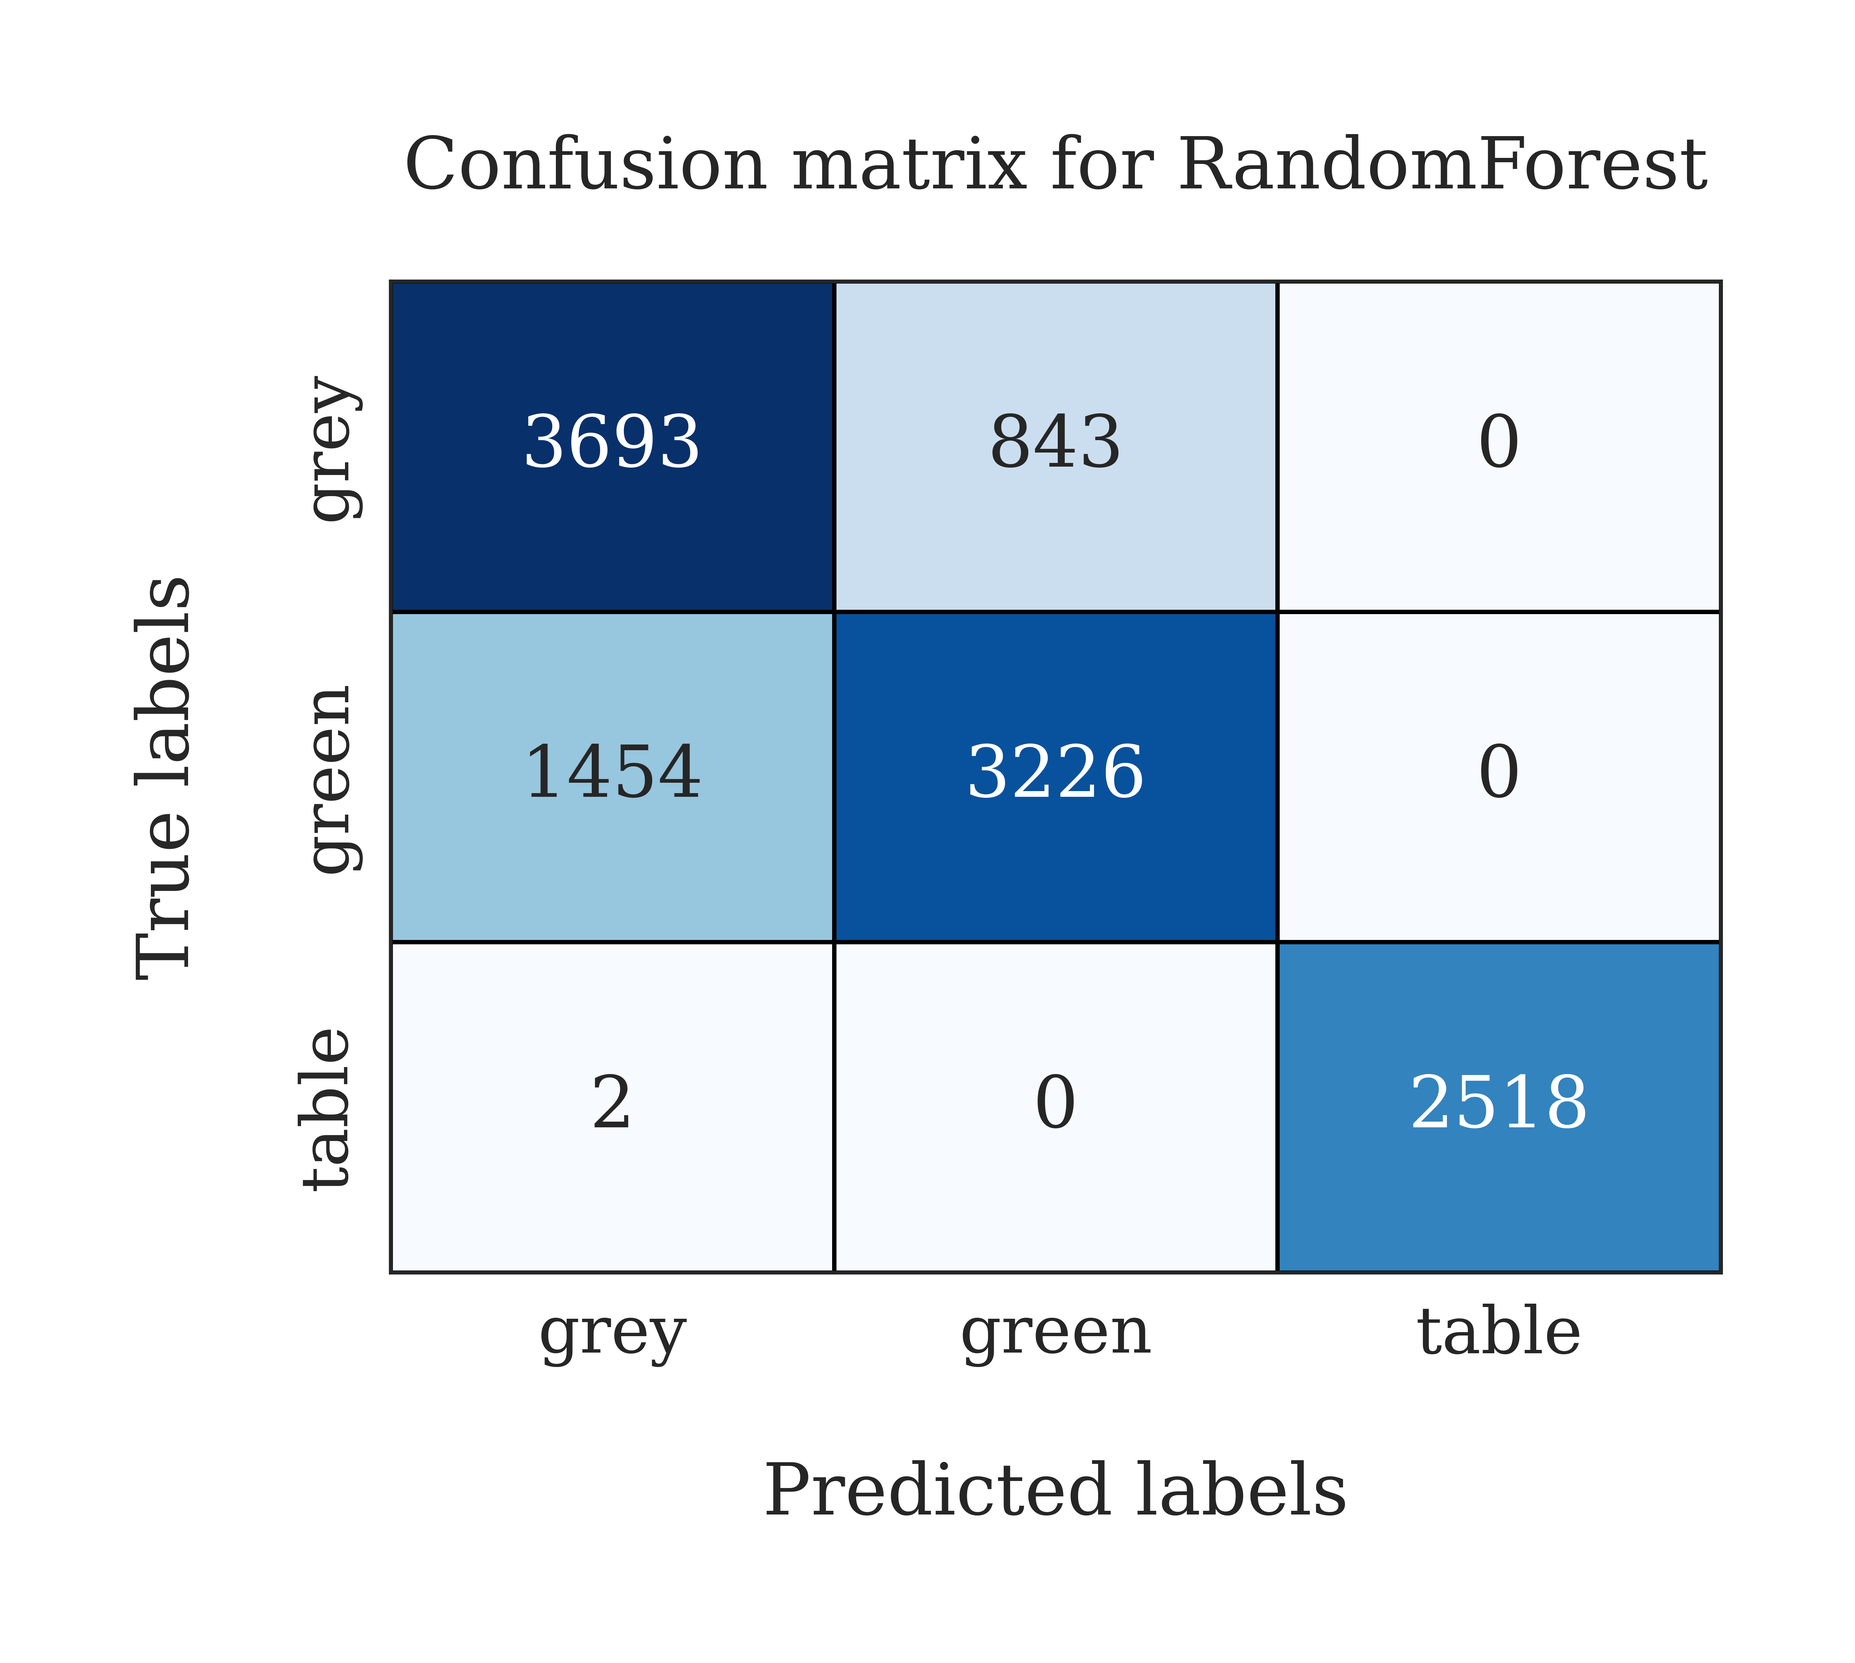
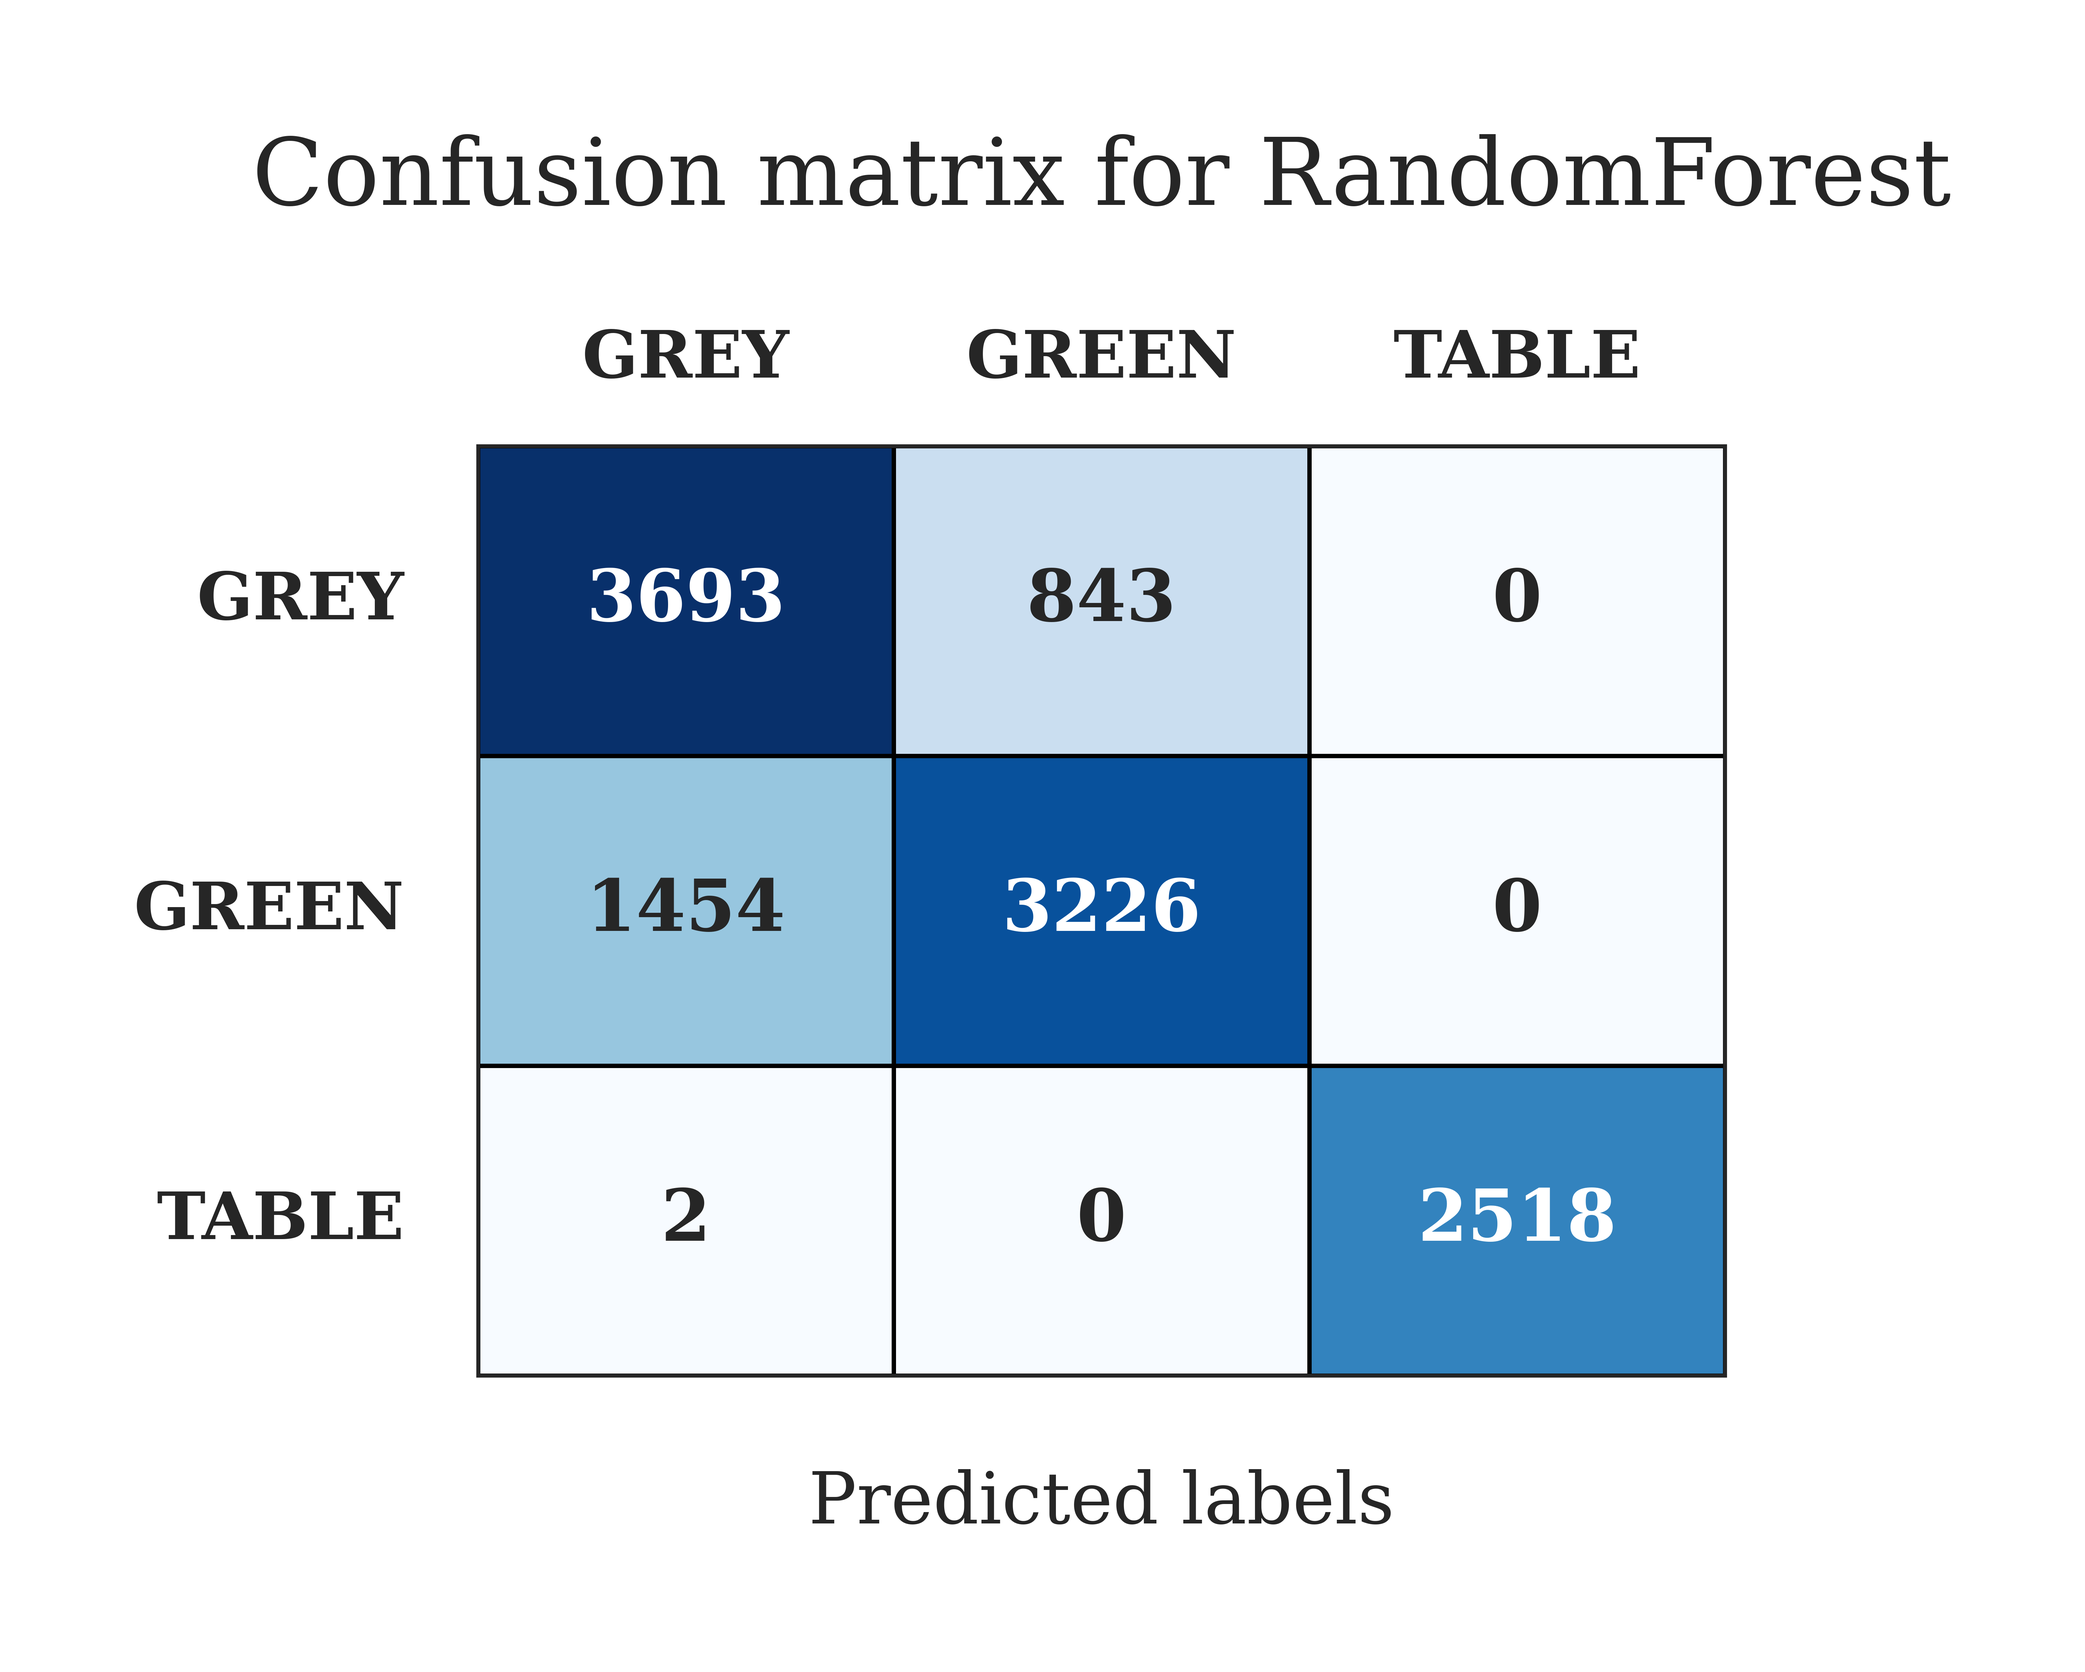
Added metrics and confusion matrices. Small code improvements.

diff --git a/python/DataPreparation/data_prep.py b/python/DataPreparation/data_prep.py
@@ -16,10 +16,12 @@ def parser_args_for_sac():
                         help='file with dvc stage params')
     return parser.parse_args()
 
-def to_categorical(df: pd.DataFrame):
-    df['surface_type'] = pd.Categorical(df['surface_type'])
+
+def to_categorical(df: pd.DataFrame, categories):
+    df['surface_type'] = pd.Categorical(df['surface_type'], ordered=True, categories=categories)
     df = df.assign(surface_type=df.surface_type.cat.codes)
     return df
+
 
 def exportDF(df: pd.DataFrame, dir):
     X = df.drop('surface_type', axis=1)
@@ -53,6 +55,22 @@ def exportDF(df: pd.DataFrame, dir):
     y_val.to_csv(y_val_name, index=False)
 
 
+def selectFeatures(argPool, df):
+    if argPool == 'motor-axis-currents':
+        return df[['xsetspeed', 'ysetspeed', 'm1cur', 'm2cur', 'm3cur', 'sum_motor_current', 'xcur', 'ycur', 'rotcur',
+                   'sum_axis_current', 'rotational', 'surface_type']]
+    elif argPool == 'motorCurrent-motorVelocities':
+        return df[['surface_type', 'rotational', 'xsetspeed', 'ysetspeed',
+                   'm1cur', 'm2cur', 'm3cur', 'm1vel', 'm2vel', 'm3vel']]
+    elif argPool == 'only-motor-currents':
+        return df[['surface_type', 'rotational', 'xsetspeed', 'ysetspeed', 'm1cur', 'm2cur',
+                   'm3cur']]
+    elif argPool == 'pure-motor-currents':
+        return df[['surface_type', 'm1cur', 'm2cur', 'm3cur']]
+    else:
+        print("ERROR-ERROR-ERROR-ERROR-ERROR-ERROR-ERROR-ERROR-ERROR-ERROR")
+
+
 if __name__ == '__main__':
     args = parser_args_for_sac()
     with open(args.params, 'r') as f:
@@ -76,7 +94,7 @@ if __name__ == '__main__':
     df_list = (pd.read_csv(str(output_dir / file) + '_surf.csv') for file in surf_types)
 
     df = pd.concat(df_list, ignore_index=True)
-    df = to_categorical(df)
+    df = to_categorical(df, surf_types)
 
     old_names = ['X_axis_speed_mm_s', 'Y_axis_speed_mm_s', 'Motor_1_current_A', 'Motor_2_current_A',
                  'Motor_3_current_A', 'Current_X_A', 'Current_Y_A', 'Current_Z_A', 'Sum_motor_current_A',
@@ -90,20 +108,9 @@ if __name__ == '__main__':
 
     df.to_csv(output_dir / "merged.csv", index=False)
 
-    types = ['motor-axis-currents', 'motorCurrent-motorVelocities', 'only-motor-currents']
+    types = ['motor-axis-currents', 'motorCurrent-motorVelocities', 'only-motor-currents', 'pure-motor-currents']
 
     for type in types:
         prepDF = df.copy()
-        if type == 'motor-axis-currents':
-            prepDF = prepDF[['xsetspeed', 'ysetspeed', 'm1cur', 'm2cur', 'm3cur', 'sum_motor_current', 'xcur', 'ycur',
-                             'rotcur', 'sum_axis_current', 'rotational', 'surface_type']]
-        elif type == 'motorCurrent-motorVelocities':
-            prepDF = prepDF[['surface_type', 'rotational', 'xsetspeed', 'ysetspeed',
-                             'm1cur', 'm2cur', 'm3cur', 'm1vel', 'm2vel', 'm3vel']]
-        elif type == 'only-motor-currents':
-            prepDF = prepDF[['surface_type', 'rotational', 'xsetspeed', 'ysetspeed', 'm1cur', 'm2cur',
-                             'm3cur']]
+        prepDF = selectFeatures(type, prepDF)
         exportDF(prepDF, type)
-
-
-

diff --git a/python/decisionTree/decision_tree_full.py b/python/decisionTree/decision_tree_full.py
@@ -44,24 +44,33 @@ if __name__ == '__main__':
     y_train_cols = y_train.columns
 
     if argument_pool == 'motor-axis-currents':
-        TREES_MODELS_BEST_PARAMETERS = {
+        BEST_PARAMETERS = {
             'DecisionTree': {'max_depth': 15, 'min_samples_leaf': 4, 'min_samples_split': 3, 'splitter': 'best'},
-            'RandomForest': {'max_depth': 20, 'min_samples_leaf': 2, 'min_samples_split': 4, 'n_estimators': 25}}
+            'RandomForest': {'max_depth': 20, 'min_samples_leaf': 2, 'min_samples_split': 4, 'n_estimators': 25}
+        }
 
     elif argument_pool == 'motorCurrent-motorVelocities':
-        TREES_MODELS_BEST_PARAMETERS = {
+        BEST_PARAMETERS = {
             'DecisionTree': {'max_depth': 20, 'min_samples_leaf': 1, 'min_samples_split': 3, 'splitter': 'random'},
-            'RandomForest': {'max_depth': 20, 'min_samples_leaf': 1, 'min_samples_split': 2, 'n_estimators': 35}}
+            'RandomForest': {'max_depth': 20, 'min_samples_leaf': 1, 'min_samples_split': 2, 'n_estimators': 35}
+        }
 
     elif argument_pool == 'only-motor-currents':
-        TREES_MODELS_BEST_PARAMETERS = {
-            'DecisionTree': {'max_depth': 10, 'min_samples_leaf': 1, 'min_samples_split': 3, 'splitter': 'best'},
-            'RandomForest': {'max_depth': 15, 'min_samples_leaf': 1, 'min_samples_split': 6, 'n_estimators': 35}}
+        BEST_PARAMETERS = {
+            'DecisionTree': {'max_depth': 10, 'min_samples_leaf': 10, 'min_samples_split': 5, 'splitter': 'best'},
+            'RandomForest': {'max_depth': 25, 'min_samples_leaf': 15, 'min_samples_split': 25, 'n_estimators': 100}
+        }
+
+    elif argument_pool == 'pure-motor-currents':
+        BEST_PARAMETERS ={
+            'DecisionTree': {'max_depth': 10, 'min_samples_leaf': 15, 'min_samples_split': 10, 'splitter': 'best'},
+            'RandomForest': {'max_depth': 20, 'min_samples_leaf': 15, 'min_samples_split': 15, 'n_estimators': 25}
+        }
 
     else:
         print("ERROR-ERROR-ERROR-ERROR-ERROR-ERROR-ERROR-ERROR-ERROR-ERROR")
 
-    best_params = TREES_MODELS_BEST_PARAMETERS.get(args.model_name)
+    best_params = BEST_PARAMETERS.get(args.model_name)
     reg = TREES_MODELS_MAPPER.get(args.model_name)(**best_params)
     if isinstance(reg, RandomForestClassifier):
         y_train = np.ravel(y_train.values)

diff --git a/python/lightGBM/light_gbm_full.py b/python/lightGBM/light_gbm_full.py
@@ -31,21 +31,26 @@ if __name__ == '__main__':
     X_full = pd.read_csv(X_full_name)
     y_full = pd.read_csv(y_full_name)
 
-
     if argument_pool == 'motor-axis-currents':
-        BEST_PARAMETERS = {'boosting': 'dart', 'learning_rate': 0.1, 'max_bin': 255, 'num_iterations': 150, 'num_leaves': 30}
+        BEST_PARAMETERS = {'boosting': 'dart', 'learning_rate': 0.1, 'max_bin': 255, 'num_iterations': 150,
+                           'num_leaves': 30}
 
     elif argument_pool == 'motorCurrent-motorVelocities':
-        BEST_PARAMETERS = {'boosting': 'dart', 'learning_rate': 0.1, 'max_bin': 355, 'num_iterations': 150, 'num_leaves': 40}
+        BEST_PARAMETERS = {'boosting': 'dart', 'learning_rate': 0.1, 'max_bin': 355, 'num_iterations': 150,
+                           'num_leaves': 40}
 
     elif argument_pool == 'only-motor-currents':
-        BEST_PARAMETERS = {'boosting': 'dart', 'learning_rate': 0.05, 'max_bin': 255, 'num_iterations': 200, 'num_leaves': 40}
+        BEST_PARAMETERS = {'boosting': 'dart', 'learning_rate': 0.05, 'max_bin': 255, 'num_iterations': 200,
+                           'num_leaves': 40}
 
+    elif argument_pool == 'pure-motor-currents':
+        BEST_PARAMETERS = {'boosting': 'dart', 'learning_rate': 0.05, 'max_bin': 255, 'min_data_in_leaf': 15,
+                           'num_iterations': 200, 'num_leaves': 30}
     else:
         print("ERROR-ERROR-ERROR-ERROR-ERROR-ERROR-ERROR-ERROR-ERROR-ERROR")
 
     lgbm_model = lgb.LGBMClassifier(objective="multiclass", num_class=3, verbose=-1, n_jobs=4, **BEST_PARAMETERS)
-    
+
     lgbm_model.fit(X_full, y_full)
 
     lgbm_model.booster_.save_model(output_model_joblib_path)

diff --git a/python/catBoost/cat_boost.py b/python/catBoost/cat_boost.py
@@ -10,15 +10,12 @@ import random
 from sklearn.model_selection import GridSearchCV
 
 
-
 def parser_args_for_sac():
     parser = argparse.ArgumentParser(description='Paths parser')
     parser.add_argument('--input_dir', '-id', type=str, default='data/prepared/',
                         required=False, help='path to input data directory')
     parser.add_argument('--output_dir', '-od', type=str, default='data/models/',
                         required=False, help='path to save prepared data')
-    parser.add_argument('--baseline_model', '-bm', type=str, default='data/models/RandomForest_prod.joblib',
-                        required=False, help='path to linear regression prod version')
     parser.add_argument('--params', '-p', type=str, default='params.yaml', required=False,
                         help='file with dvc stage params')
     return parser.parse_args()
@@ -33,7 +30,6 @@ if __name__ == '__main__':
 
     input_dir = Path(args.input_dir)
     output_dir = Path(args.output_dir)
-    baseline_model_path = Path(args.baseline_model)
 
     output_dir.mkdir(exist_ok=True, parents=True)
     output_model_joblib_path = output_dir / 'CatClassifier.joblib'
@@ -56,11 +52,7 @@ if __name__ == '__main__':
 
     cat_classifier = cat_classifier.fit(X_train, y_train, silent=True)
 
-    # baseline_model = load(baseline_model_path)
-    # y_pred_baseline = baseline_model.predict(X_test)
-
     print("Score: ", cat_classifier.best_estimator_.score(X_test, y_test))
-    # print("Baseline Score: ", baseline_model.score(X_test, y_test))
     print(cat_classifier.best_params_)
 
     dump(cat_classifier.best_estimator_, output_model_joblib_path)

diff --git a/python/DataPreparation/data_prep_new.py b/python/DataPreparation/data_prep_new.py
@@ -2,7 +2,7 @@ import pandas as pd
 import argparse
 from pathlib import Path
 
-from data_prep import to_categorical
+from data_prep import to_categorical, selectFeatures
 
 
 def parser_args_for_sac():
@@ -19,7 +19,7 @@ def parser_args_for_sac():
 def cols_to_numeric(df: pd.DataFrame) -> pd.DataFrame:
     for x in list(df.columns.values):
         df[x] = pd.to_numeric(df[x], errors='coerce').fillna(0)
-    return  df
+    return df
 
 
 if __name__ == '__main__':
@@ -45,21 +45,10 @@ if __name__ == '__main__':
     df_list = (pd.read_csv(str(output_dir / file) + '_surf.csv') for file in surf_types)
 
     df = pd.concat(df_list, ignore_index=True)
-    df = to_categorical(df)
+    df = to_categorical(df, surf_types)
     df.to_csv(output_dir / "merged.csv", index=False)
 
-
-    if argument_pool == 'motor-axis-currents':
-        df = df[['xsetspeed', 'ysetspeed', 'm1cur', 'm2cur', 'm3cur', 'sum_motor_current', 'xcur', 'ycur', 'rotcur',
-             'sum_axis_current', 'rotational', 'surface_type']]
-    elif argument_pool == 'motorCurrent-motorVelocities':
-        df = df[['surface_type', 'rotational', 'xsetspeed', 'ysetspeed',
-                             'm1cur', 'm2cur', 'm3cur', 'm1vel', 'm2vel', 'm3vel']]
-    elif argument_pool == 'only-motor-currents':
-        df = df[['surface_type', 'rotational', 'xsetspeed', 'ysetspeed', 'm1cur', 'm2cur',
-                             'm3cur']]
-    else:
-        print("ERROR-ERROR-ERROR-ERROR-ERROR-ERROR-ERROR-ERROR-ERROR-ERROR")
+    df = selectFeatures(argument_pool, df)
 
     X = df.drop('surface_type', axis=1)
     y = df['surface_type']

diff --git a/python/decisionTree/decision_tree_valid.py b/python/decisionTree/decision_tree_valid.py
@@ -1,5 +1,7 @@
 import argparse
 from pathlib import Path
+
+import matplotlib.pyplot as plt
 import numpy as np
 import pandas as pd
 from joblib import load
@@ -23,21 +25,26 @@ def metricsAndPlots(model_name, y_val, y_pred, metrics_dir, cm_plot_dir):
         )
 
     sns.set_theme(context='paper', style='white', font='Serif', font_scale=2,
-                  rc={'savefig.dpi': 800, 'axes.titlepad': 25,
-                      'axes.labelpad': 25})
+                  rc={'savefig.dpi': 800, 'axes.titlepad': 33,
+                      'figure.figsize': (6, 4.5), 'axes.titlesize': 25,
+                      'axes.labelpad': 25, 'xtick.labeltop': True,
+                      'xtick.major.pad': 10, 'ytick.major.pad': 15,
+                      'xtick.labelbottom': False, 'font.weight': 'bold'})
 
-    categories = ['grey', 'green', 'table']
+    categories = [x.upper() for x in ['grey', 'green', 'table']]
     ConfMatrix = confusion_matrix(y_val, y_pred)
 
     lineWidth = 1.0
 
     heatmap = sns.heatmap(ConfMatrix, annot=True, cbar=False, cmap='Blues',
                           linewidths=lineWidth, linecolor='#000', fmt="d",
-                          xticklabels=categories, yticklabels=categories )
+                          xticklabels=categories, yticklabels=categories)
 
     heatmap.set_title('Confusion matrix for {}'.format(model_name))
     heatmap.set_xlabel("Predicted labels")
-    heatmap.set_ylabel("True labels")
+    # heatmap.set_ylabel("True labels")
+    plt.yticks(rotation=0)
+
 
     for _, spine in heatmap.spines.items():
         spine.set_visible(True)

diff --git a/python/decisionTree/decision_tree.py b/python/decisionTree/decision_tree.py
@@ -1,18 +1,19 @@
 import argparse
 import random
 from pathlib import Path
+
 import numpy as np
 import pandas as pd
 import yaml
 from joblib import dump
 from sklearn import tree
-from sklearn.dummy import DummyClassifier
 from sklearn.ensemble import RandomForestClassifier
-from sklearn.model_selection import GridSearchCV
 from sklearn.metrics import accuracy_score, make_scorer
+from sklearn.model_selection import GridSearchCV
 
 TREES_MODELS_MAPPER = {'DecisionTree': tree.DecisionTreeClassifier,
                        'RandomForest': RandomForestClassifier}
+
 
 def parser_args_for_sac():
     parser = argparse.ArgumentParser(description='Paths parser')
@@ -61,12 +62,7 @@ if __name__ == '__main__':
         y_test = np.ravel(y_test.values)
     decision_tree_classifier = decision_tree_classifier.fit(X=X_train, y=y_train)
 
-    # create dummy classifier
-    dummy_clf = DummyClassifier(strategy='stratified', random_state=42)
-    dummy_clf.fit(X_train, y_train)
-
     print('Score: ', decision_tree_classifier.best_estimator_.score(X_test, y_test))
-    print('Baseline Score: ', dummy_clf.score(X_test, y_test))
     print()
     print(decision_tree_classifier.best_params_)
     print()

diff --git a/python/catBoost/cat_boost_full.py b/python/catBoost/cat_boost_full.py
@@ -5,8 +5,6 @@ from catboost import CatBoostClassifier as Cat
 from joblib import dump
 
 
-
-
 def parser_args_for_sac():
     parser = argparse.ArgumentParser(description='Paths parser')
     parser.add_argument('--input_dir', '-id', type=str, default='data/prepared/',
@@ -42,7 +40,10 @@ if __name__ == '__main__':
         BEST_PARAMETERS = {'max_depth': 13, 'n_estimators': 40}
 
     elif argument_pool == 'only-motor-currents':
-        BEST_PARAMETERS = {'max_depth': 12, 'n_estimators': 40}
+        BEST_PARAMETERS = {'max_depth': 10, 'min_data_in_leaf': 5, 'n_estimators': 100}
+
+    elif argument_pool == 'pure-motor-currents':
+        BEST_PARAMETERS = {'max_depth': 8, 'min_data_in_leaf': 5, 'n_estimators': 40}
 
     else:
         print("ERROR-ERROR-ERROR-ERROR-ERROR-ERROR-ERROR-ERROR-ERROR-ERROR")
